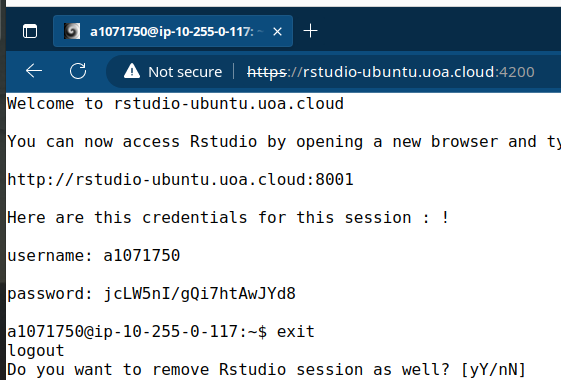
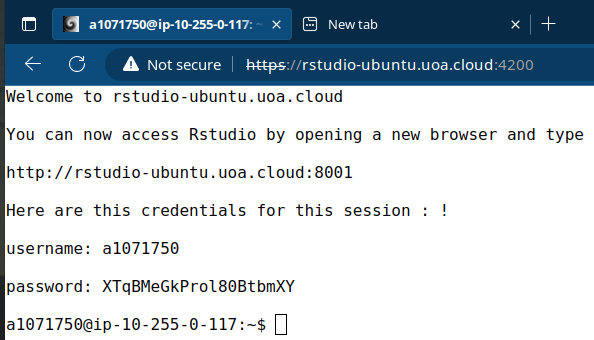
tidy up and fix images AWS RONIN login

Changed region(s): [[0.0, 0.0, 1.0, 1.0], [0.8485, 0.0588, 0.9394, 0.0882], [0.0303, 0.1765, 0.0606, 0.2059]]

diff --git a/Practicals/AWS_RONIN_connection.md b/Practicals/AWS_RONIN_connection.md
@@ -18,9 +18,6 @@ Accessing your cloud compute resource is like having your very own server.
     
     ![AWS_RONIN_shell_log_in_OK](./Bash_Practicals/images/shell_in_a_box_Rstudio_login_prompt.png)
 
-    ```
-    Would you like to start up a Rstudio session?[yY/nN]
-    ```
     Type `y` or `Y` at the prompt.
 
     Now you should see the following: 
